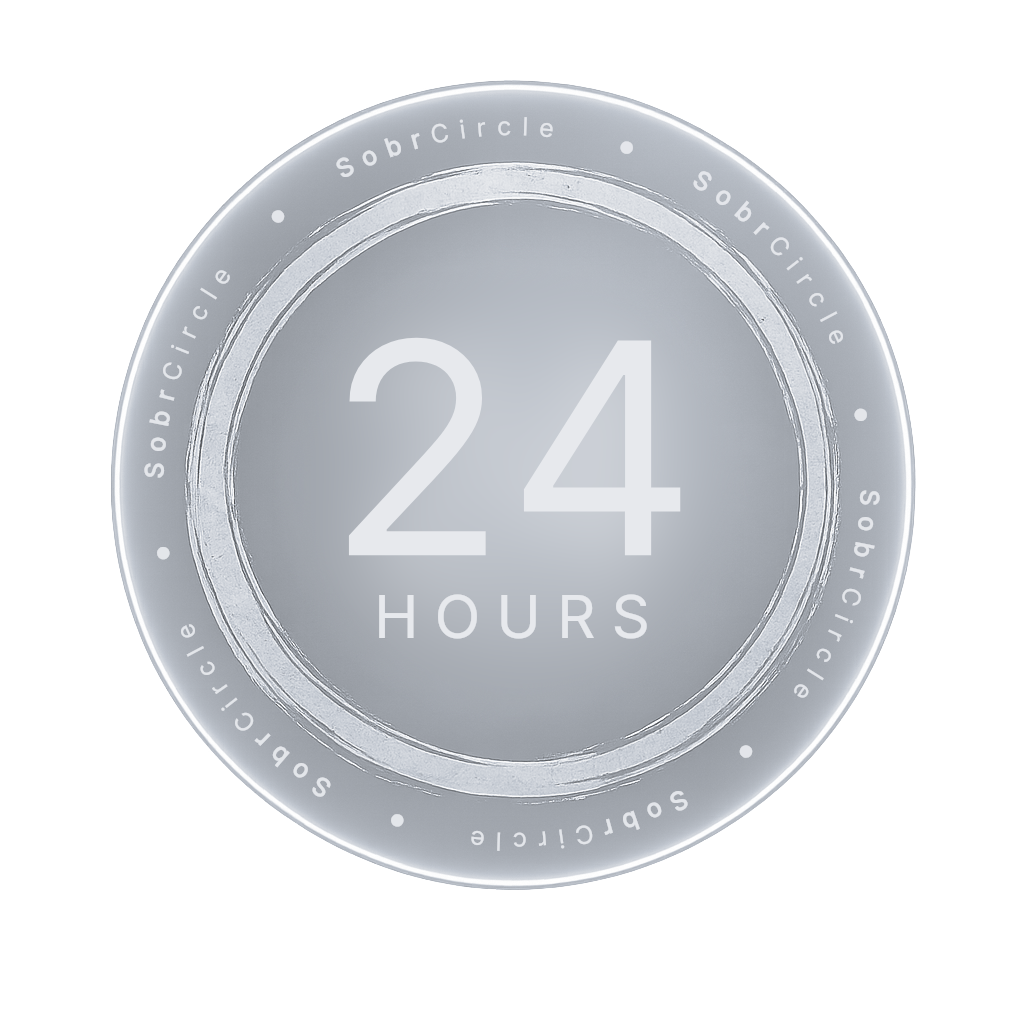
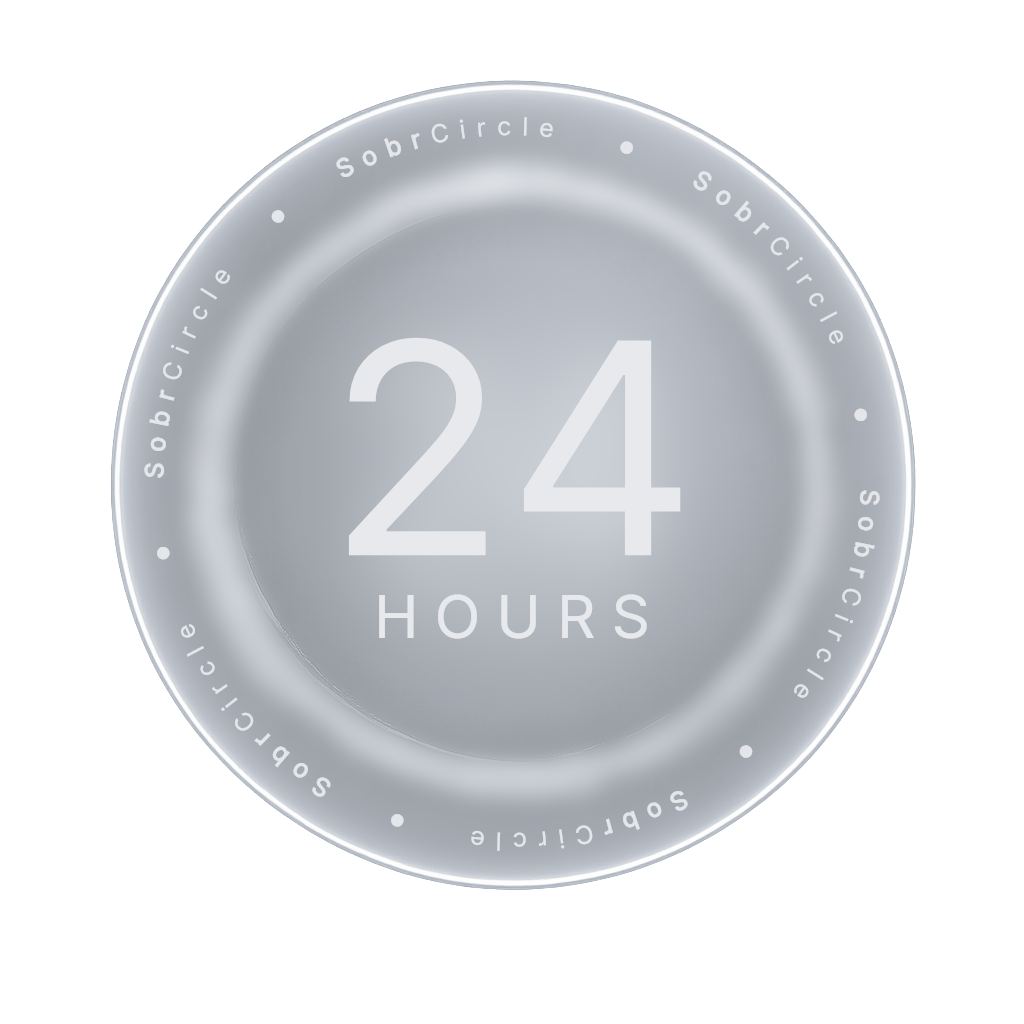
Smooth the chrome ring brushwork — fully clean badge
Adds smoothChromeRing pass that blurs a copy of the tinted template and
masks it back over the chrome ring annulus only (r=250–395 with soft
feathered edges). Brushwork on the ring is gone; inner disc and outer
halo line stay untouched. Combined with the previously-disabled distress
on text, the badge reads as a fully clean variant.

https://claude.ai/code/session_01TqmVcPLJNZuf7Q6XCPWgNk

Changed region(s): [[0.1562, 0.1562, 0.8438, 0.7812]]

diff --git a/scripts/generate-badges.ts b/scripts/generate-badges.ts
@@ -377,6 +377,41 @@ function applyTint(ctx: SKRSContext2D, hex: string) {
   ctx.putImageData(img, 0, 0)
 }
 
+// Smooth the chrome ring brushwork on the tinted template by blending
+// a blurred copy back over the ring annulus only. The inner disc and
+// outer halo line stay untouched. Mask is feathered at both ring edges
+// so the smoothing fades into the original instead of hard-cutting.
+function smoothChromeRing(canvas: any) {
+  const ctx = canvas.getContext('2d')
+
+  // 1. Blurred copy of the canvas.
+  const blurred = createCanvas(SIZE, SIZE)
+  const bctx = blurred.getContext('2d')
+  bctx.filter = 'blur(10px)'
+  bctx.drawImage(canvas, 0, 0)
+  bctx.filter = 'none'
+
+  // 2. Feathered annulus mask: alpha 0 outside r=250 and r=395, alpha 1
+  // between r=280 and r=370 with soft transitions at both edges.
+  const mask = createCanvas(SIZE, SIZE)
+  const mctx = mask.getContext('2d')
+  const grad = mctx.createRadialGradient(CX, CY, 250, CX, CY, 395)
+  const span = 395 - 250
+  grad.addColorStop(0, 'rgba(255,255,255,0)')
+  grad.addColorStop((280 - 250) / span, 'rgba(255,255,255,1)')
+  grad.addColorStop((370 - 250) / span, 'rgba(255,255,255,1)')
+  grad.addColorStop(1, 'rgba(255,255,255,0)')
+  mctx.fillStyle = grad
+  mctx.fillRect(0, 0, SIZE, SIZE)
+
+  // 3. Mask the blurred copy down to the feathered ring band.
+  bctx.globalCompositeOperation = 'destination-in'
+  bctx.drawImage(mask, 0, 0)
+
+  // 4. Overlay the smoothed ring band back over the original canvas.
+  ctx.drawImage(blurred, 0, 0)
+}
+
 async function renderBadge(template: any, d: Duration): Promise<Buffer> {
   // Pre-tint the template so the disc-gray anchor maps exactly to the
   // assigned color. Doing this first (rather than at the end) avoids the
@@ -385,6 +420,7 @@ async function renderBadge(template: any, d: Duration): Promise<Buffer> {
   const tctx = tinted.getContext('2d')
   tctx.drawImage(template, 0, 0, SIZE, SIZE)
   applyTint(tctx, d.color)
+  smoothChromeRing(tinted)
 
   const canvas = createCanvas(SIZE, SIZE)
   const ctx = canvas.getContext('2d')
